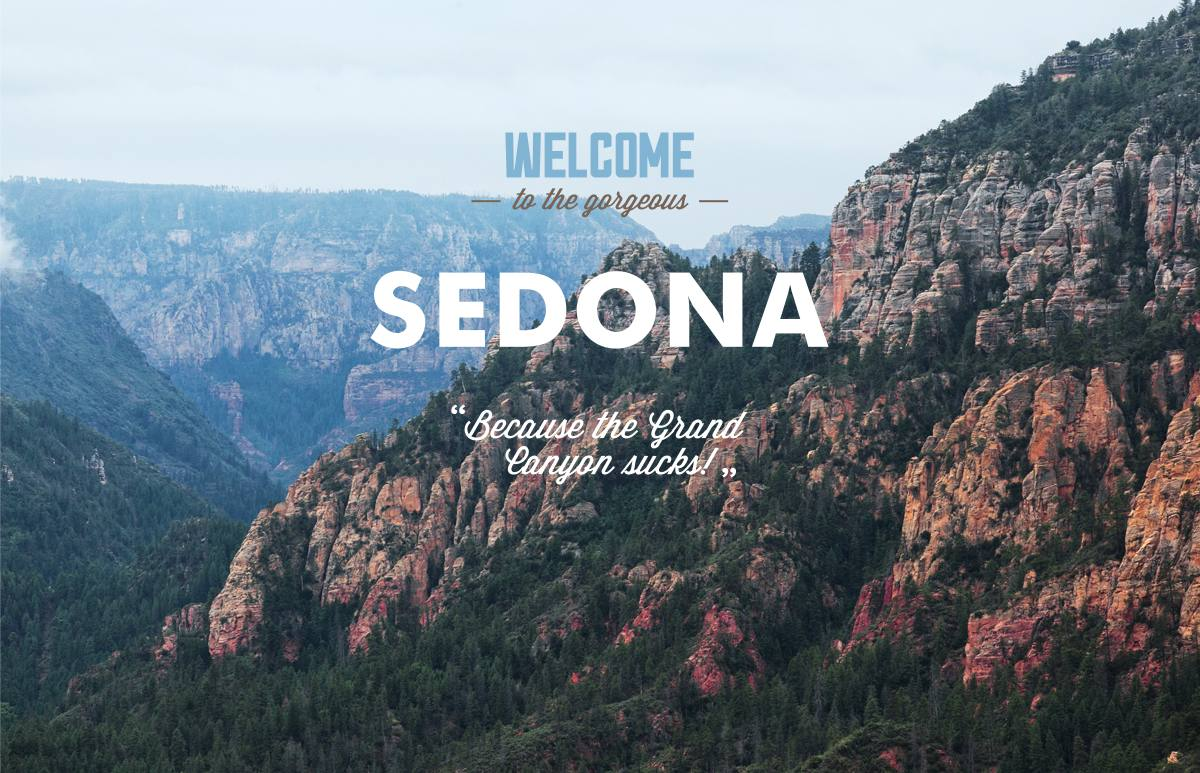
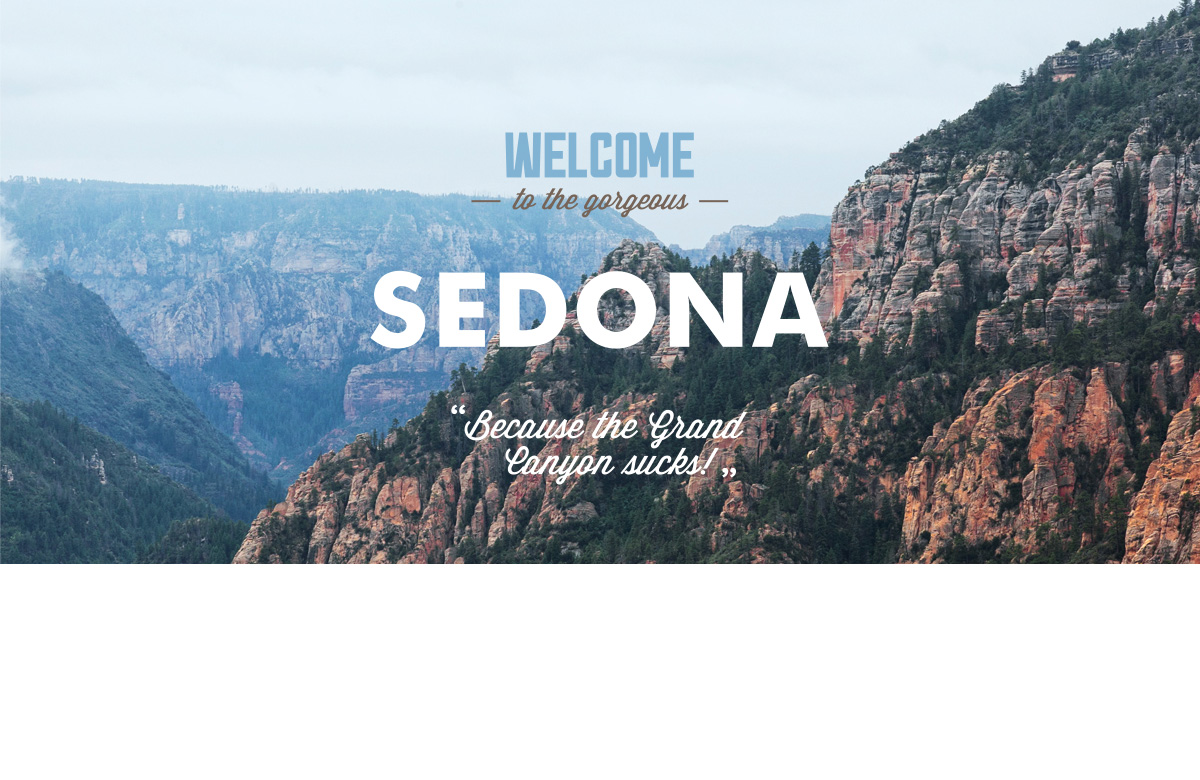
header-index(1)
pixel perfect of the navigation

diff --git a/style.css b/style.css
@@ -20,6 +20,7 @@ a {
   color: #000000;
 
   background-color: #ffffff;
+
 }
 
 .main-navigation {
@@ -52,6 +53,7 @@ div.reasons-info.right {
 
   background-color: #81b3d2;
 }
+
 
 .reasons-name,
 .attractions-name {
@@ -345,23 +347,46 @@ div.reasons-info.right {
   color: #666666;
 }
 /* Сеточные стили */
-
-.main-navigation {
+.main-header{
+  position: relative;
+  z-index: 1;
+  width: 1200px;
   width: 1200px;
   margin: 0 auto;
+}
+
+.main-navigation {
+  width: 100%;
+  margin: 0;
   padding: 0;
 
   display: flex;
+  justify-content: space-between;
+  flex-wrap: wrap;
+
+    /* temp */
+  /* background: rgba(234, 255, 45, 0.2);
+  box-shadow: inset 0 0 0 2px rgb(234, 255, 45); */
+}
+.main-navigation li:nth-child(3){
+  margin-left: auto;
 }
 
-.main-navigation li {
-  padding-top: 22px;
-  padding-bottom: 22px;
-  margin: auto;
+.main-navigation a{
+  display: block;
+  width: 239px;
+
+  padding-top: 14px;
+  padding-bottom: 16px;
+  text-align: center;
 }
-.main-navigation li:nth-child(2) {
-  margin-right: 244px;
+
+.main-header-logo{
+  position: absolute;
+  left: 44%;
+  z-index: 2;
 }
+
 .container {
   width: 1200px;
   margin: 0 auto;
@@ -372,37 +397,46 @@ div.reasons-info.right {
 .index-main-pic {
   margin: 0;
   padding: 0;
-  position: relative;
+  top: 0px;
+
+  position: absolute;
  }
 .index-main-pic::after {
   content: "";
-  width: 1202px;
+  width: 1201px;
   height: 59px;
+
+  margin: 0;
+  padding: 0;
   background-image: url("img/ind/polygon.png");
-  left: -1px;
-  bottom: 5px;
+  background-repeat: no-repeat;
+
   position: absolute;
+  bottom: 222px;
+  left: -1px;
 }
-.index-wrapper {
+.index-wrapper{
+  position: relative;
+  top:510px;
+}
+.main-slogan-wrapper {
   display: flex;
   flex-direction: column;
   align-items: center;
-  justify-content: space-around;
-
-  background-color: #ffffff;
+ 
 }
 .main-slogan,
-.index-wrapper p {
+.main-slogan-wrapper p {
   margin: 0;
   padding: 0;
 }
 
 .main-slogan {
   width: 440px;
-  padding-top:55px;
-  margin-bottom: 40px;
+  margin-top: 59px;
+  margin-bottom: 28px;
 }
-.index-wrapper p{
+.main-slogan-wrapper p {
   padding-bottom: 50px;
 }
 
@@ -573,4 +607,27 @@ div.reasons-info.left img{
 .found-hotel-information{
   width: 258px;
   margin-left: 30px;
+}
+
+img {
+  max-width: 100%;
+  height: auto;
+}
+
+.visually-hidden:not(:focus):not(:active),
+input[type="checkbox"].visually-hidden,
+input[type="radio"].visually-hidden {
+  position: absolute;
+
+  width: 1px;
+  height: 1px;
+  margin: -1px;
+  border: 0;
+  padding: 0;
+
+  white-space: nowrap;
+
+  clip-path: inset(100%);
+  clip: rect(0 0 0 0);
+  overflow: hidden;
 }

diff --git a/index.html b/index.html
@@ -12,9 +12,9 @@
 <body>
 	<header class='main-header'>
 		<a class="main-header-logo" href="#">
-			<img src="img/logo-sedona.svg" width='140' height="72" alt='Лого города Седона'>
+			<img src="img/logo-sedona.svg" width='140' height="71" alt='Лого города Седона'>
 		</a>
-		<nav class='main-navigation'>
+		<nav class='header-navigation'>
 			<ul class='main-navigation'>
 				<li><a href='info.html'>Информация</a></li>
 				<li><a href='media.html'>Фото и видео</a></li>
@@ -26,9 +26,9 @@
 	<main class="container">
 		<div class="index-main-pic">
 			<img src="img/ind/index-main-group.jpg" width='1200' height="773" alt='Welcome to the gorgeous Sedona. Because the Grand Canyon sucks'>
-			<!-- Свойство :after для полигона -->
 		</div>
 		<div class="index-wrapper">
+		<div class="main-slogan-wrapper">
 			<h1 class='main-slogan'>Седона — небольшой городок в Аризоне, заслуживающий большего!</h1>
 			<p>Рассмотрим 5 причин, по которым Седона круче, чем гранд каньон!</p>
 		</div>		
@@ -125,6 +125,7 @@
 				</div>
 			</div>
 		</section>
+	</div>
 	</main>
 	<footer class="main-footer">
 
